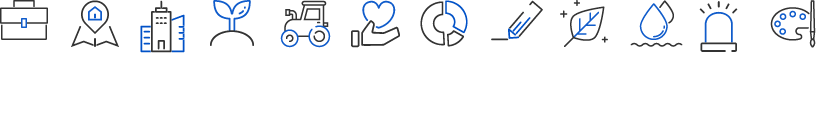
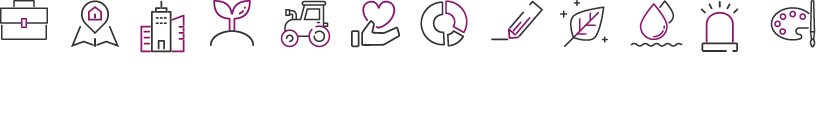
2022 횡성군청 전면개편

diff --git a/2022hsg/site/public/css/public_common.css b/2022hsg/site/public/css/public_common.css
@@ -186,7 +186,7 @@ body[data-layout-type="public-type"]{}
 .header_gnb .direct_link_wrap .language .lang_list .lang_item.active .lang_link .lang_text:after{top:8px;right:0;width:12px;height:9px;background-image:url(../images/common/header_gnb_icon.png);background-position:left -30px;}
 
 /* header_box */
-.header_box{display:block;width:100%;height:104px;font-size:0;line-height:0;box-sizing:border-box;}
+.header_box{display:block;width:100%;height:110px;font-size:0;line-height:0;box-sizing:border-box;}
 .header_box .logo{display:block;position:absolute;z-index:21;top:30px;left:0;width:auto;font-size:0;line-height:0;box-sizing:border-box;}
 .header_box .logo a{display:inline-block;width:auto;height:60px;font-size:0;line-height:0;vertical-align:top;box-sizing:border-box;}
 .header_box .logo a .logo_icon{display:inline-block;position:relative;top:calc(50% - 30px);width:85px;height:61px;background-image:url(../images/common/public_logo.png);background-repeat:no-repeat;background-position:left top;vertical-align:top;box-sizing:border-box;}
@@ -195,13 +195,13 @@ body[data-layout-type="public-type"]{}
     .header_box .menu_show{display:none;}
 }
 /* lnb */
-.lnb{display:block;position:absolute;z-index:20;top:47px;left:0;width:100%;font-size:0;line-height:0;box-sizing:border-box;}
+.lnb{display:block;position:absolute;z-index:20;top:50px;left:0;width:100%;font-size:0;line-height:0;box-sizing:border-box;}
 .lnb .lnb_topbox{display:none;}
 .lnb .menu{background-color:#fff;transition-property:height;transition-duration:250ms;transition-timing-function:ease-in-out;}
 .lnb .menu:before{display:block;position:absolute;top:109px;left:50%;transform:translateX(-50%);width:0px;height:1px;background-color:#e5e5e5;content:'';box-sizing:border-box;transition-property:width;transition-duration:950ms;transition-timing-function:ease-in-out;}
 .lnb_open .lnb .menu:before{width:100%;}
 .lnb .menu:after{display:block;position:absolute;top:109px;left:50%;transform:translateX(-50%);width:100%;height:1px;background-color:#e5e5e5;content:'';box-sizing:border-box;transition-property:width, background-color;transition-duration:700ms;transition-timing-function:ease-in-out;}
-.lnb_open .lnb .menu:after{width:0px;background-color:#0456b1;}
+.lnb_open .lnb .menu:after{width:0px;background-color:#5f285c;}
 @media screen and (min-width:1001px){
     .lnb .menu{height:110px;}
 }
@@ -212,12 +212,12 @@ body[data-layout-type="public-type"]{}
 .lnb .menu .depth1 .depth1_list .depth1_item{display:inline-block;width:auto;margin-right:35px;margin-left:35px;vertical-align:top;box-sizing:border-box;}
 .lnb .menu .depth1 .depth1_list .depth1_item .depth1_text{display:inline-block;position:relative;width:auto;padding-top:25px;padding-bottom:25px;font-size:0;line-height:0;vertical-align:top;box-sizing:border-box;}
 .lnb .menu .depth1 .depth1_list .depth1_item .depth1_text span{display:inline-block;position:relative;width:auto;height:60px;font-size:0;line-height:0;vertical-align:top;box-sizing:border-box;}
-.lnb .menu .depth1 .depth1_list .depth1_item .depth1_text span:before{display:block;position:absolute;top:calc(50% - 10px);left:calc(100% + 8px);width:6px;height:6px;background-color:#0058a6;border-radius:100%;content:'';box-sizing:border-box;transform:scale(0);opacity:0;transition-property:transform, opacity;transition-duration:250ms;transition-timing-function:ease-in-out;}
+.lnb .menu .depth1 .depth1_list .depth1_item .depth1_text span:before{display:block;position:absolute;top:calc(50% - 10px);left:calc(100% + 8px);width:7px;height:7px;background-color:#e02752;border-radius:100%;content:'';box-sizing:border-box;transform:scale(0);opacity:0;transition-property:transform, opacity;transition-duration:250ms;transition-timing-function:ease-in-out;}
 .lnb .menu .depth1 .depth1_list .depth1_item .depth1_text:hover span:before{transform:scale(1);opacity:1;}
 .lnb .menu .depth1 .depth1_list .depth1_item.active .depth1_text span:before{transform:scale(1);opacity:1;}
 .lnb .menu .depth1 .depth1_list .depth1_item .depth1_text span em{display:inline-block;position:relative;top:50%;transform:translateY(-50%);font-size:22px;color:#000;line-height:26px;letter-spacing:-0.03em;font-weight:600;font-family:'Pretendard';vertical-align:top;box-sizing:border-box;}
-.lnb .menu .depth1 .depth1_list .depth1_item .depth1_text:hover span em{color:#0456b1;}
-.lnb .menu .depth1 .depth1_list .depth1_item.active .depth1_text span em{color:#0456b1;}
+.lnb .menu .depth1 .depth1_list .depth1_item .depth1_text:hover span em{color:#e02752;}
+.lnb .menu .depth1 .depth1_list .depth1_item.active .depth1_text span em{color:#e02752;}
 .lnb .menu .depth1 .depth1_list .depth1_item .depth1_text[target="_blank"] span em{padding-right:24px;}
 .lnb .menu .depth1 .depth1_list .depth1_item .depth1_text[target="_blank"] span em:before{display:block;position:absolute;top:calc(50% - 8px);right:0;width:17px;height:17px;background-image:url(../images/common/lnb_icon.png);background-repeat:no-repeat;background-position:left top;content:'';transform:rotateX(0deg);transition-property:transform;transition-duration:250ms;transition-timing-function:ease-in-out;}
 .lnb .menu .depth1 .depth1_list .depth1_item .depth1_text[target="_blank"]:hover span em:before{transform:rotateX(360deg);background-position:-30px top;}
@@ -229,13 +229,13 @@ body[data-layout-type="public-type"]{}
 .lnb .menu .depth2 .menu_depth2_title{display:block;position:absolute;top:0;left:calc((100% - 1500px) / 2);width:270px;height:100%;font-size:0;line-height:0;box-sizing:border-box;}
 .lnb .menu .depth2 .menu_depth2_title:before,
 .lnb .menu .depth2 .menu_depth2_title:after{display:block;position:absolute;z-index:1;content:'';box-sizing:border-box;}
-.lnb .menu .depth2 .menu_depth2_title:before{top:50%;right:0;width:0px;height:0px;background-color:#f1f3f4;transform-origin:right center;transform:translateX(50vw) translateY(-50%) scale(0);border-radius:100%;transition-property:width, height, transform, border-radius;transition-duration:2000ms;transition-timing-function:ease-out;}
+.lnb .menu .depth2 .menu_depth2_title:before{top:50%;right:0;width:0px;height:0px;background-color:#f5f0f5;transform-origin:right center;transform:translateX(50vw) translateY(-50%) scale(0);border-radius:100%;transition-property:width, height, transform, border-radius;transition-duration:2000ms;transition-timing-function:ease-out;}
 .lnb .menu .depth1_item.active .depth2 .menu_depth2_title:before{width:100vw;height:100%;transform:translateX(0px) translateY(-50%) scale(1);border-radius:0px;}
-.lnb .menu .depth2 .menu_depth2_title:after{z-index:2;top:0;right:0;width:1px;height:0px;background-color:#e5e5e5;transition-property:height;transition-duration:2000ms;transition-timing-function:ease-in-out;}
+.lnb .menu .depth2 .menu_depth2_title:after{z-index:3;top:0;right:0;width:1px;height:0px;background-color:#e5e5e5;transition-property:height;transition-duration:2000ms;transition-timing-function:ease-in-out;}
 .lnb .menu .depth1_item.active .depth2 .menu_depth2_title:after{height:100%;}
 .lnb .menu .depth2 .menu_depth2_title .deco_box{display:block;position:absolute;z-index:3;top:0;left:0;width:100vw;height:100%;font-size:0;line-height:0;box-sizing:border-box;}
 .lnb .menu .depth2 .menu_depth2_title .deco_box .deco{display:block;position:absolute;background-repeat:no-repeat;background-position:left top;box-sizing:border-box;}
-.lnb .menu .depth2 .menu_depth2_title .deco_box .deco.type1{top:69px;right:calc(100% - 14px);width:394px;height:338px;background-image:url(../images/common/depth2_title_deco01.png);transform:translateX(100%) translateY(-10%) rotate(360deg) scale(0);filter:blur(5px);opacity:0;transition-property:transform, filter, opacity;transition-duration:2000ms;transition-timing-function:ease-in-out;}
+.lnb .menu .depth2 .menu_depth2_title .deco_box .deco.type1{top:79px;right:calc(100% + 12px);width:381px;height:320px;background-image:url(../images/common/depth2_title_deco01.png);transform:translateX(100%) translateY(-10%) rotate(360deg) scale(0);filter:blur(5px);opacity:0;transition-property:transform, filter, opacity;transition-duration:2000ms;transition-timing-function:ease-in-out;}
 .lnb .menu .depth1_item.active .depth2 .menu_depth2_title .deco_box .deco.type1{transform:translateX(0px) translateY(0px) rotate(0deg) scale(1);filter:blur(0px);opacity:1;}
 .lnb .menu .depth2 .menu_depth2_title .deco_box .deco.type2{top:-443px;left:6px;width:634px;height:639px;background-image:url(../images/common/depth2_title_deco02.png);transform:translateX(-15vw) translateY(15vw) skewX(50deg) rotate(360deg) scale(0.5);opacity:0;transition-property:transform, opacity;transition-duration:2500ms;transition-timing-function:ease-in-out;}
 .lnb .menu .depth1_item.active .depth2 .menu_depth2_title .deco_box .deco.type2{transform:translateX(0px) translateY(0px) skewX(0deg) rotate(0deg) scale(1);opacity:1;}
@@ -244,18 +244,27 @@ body[data-layout-type="public-type"]{}
 .lnb .menu .depth2 .menu_depth2_title .title_inner{display:block;position:relative;z-index:4;width:100%;padding-top:43px;padding-right:20px;font-size:0;line-height:0;box-sizing:border-box;transform:translateY(10px);visibility:hidden;opacity:0;transition-property:transform, visibility, opacity;transition-duration:500ms;transition-timing-function:ease-in-out;}
 .lnb .menu .depth1_item.active .depth2 .menu_depth2_title .title_inner{transform:translateY(0px);visibility:visible;opacity:1;}
 .lnb .menu .depth2 .menu_depth2_title .title_inner .title_text{display:block;position:relative;width:100%;height:88px;font-size:0;line-height:0;box-sizing:border-box;}
-.lnb .menu .depth2 .menu_depth2_title .title_inner .title_text em{display:inline-block;position:relative;top:50%;transform:translateY(-50%);font-size:36px;color:#0456b1;line-height:44px;letter-spacing:-0.03em;font-weight:600;font-family:'Pretendard';vertical-align:top;box-sizing:border-box;}
-.lnb .menu .depth2 .menu_depth2_title .title_inner .title_desc{display:block;position:relative;width:100%;margin-top:8px;padding-bottom:110px;font-size:18px;color:#808386;line-height:30px;letter-spacing:-0.03em;font-weight:400;font-family:'Pretendard';box-sizing:border-box;}
+.lnb .menu .depth2 .menu_depth2_title .title_inner .title_text em{display:inline-block;position:relative;top:50%;transform:translateY(-50%);font-size:36px;color:#5f285c;line-height:44px;letter-spacing:-0.03em;font-weight:600;font-family:'Pretendard';vertical-align:top;box-sizing:border-box;}
+.lnb .menu .depth2 .menu_depth2_title .title_inner .title_desc{display:block;position:relative;width:100%;margin-top:8px;padding-bottom:110px;font-size:18px;color:#756774;line-height:30px;letter-spacing:-0.03em;font-weight:400;font-family:'Pretendard';box-sizing:border-box;}
 .lnb .menu .depth2 .menu_depth2_title .title_inner .title_desc:before{display:block;position:absolute;bottom:0;left:0;width:74px;height:65px;background-image:url(../images/common/depth2_title_icon01.png);background-repeat:no-repeat;background-position:center center;content:'';box-sizing:border-box;}
-.lnb .menu .depth2 .depth2_list{display:block;position:relative;float:right;width:calc(100% - 270px);min-height:427px;padding-top:23px;padding-bottom:57px;padding-left:80px;background-color:transparent;font-size:0;line-height:0;box-sizing:border-box;transform:translateX(-20%);opacity:0;transition-property:background-color, transform, opacity;transition-duration:750ms;transition-timing-function:ease-in-out;}
+.lnb .menu .depth2 .depth2_list{display:block;position:relative;float:right;width:calc(100% - 270px);min-height:417px;padding-top:23px;padding-bottom:57px;padding-left:80px;background-color:transparent;font-size:0;line-height:0;box-sizing:border-box;transform:translateX(-20%);opacity:0;transition-property:background-color, transform, opacity;transition-duration:750ms;transition-timing-function:ease-in-out;}
 .lnb_open .lnb .menu .depth1_item.active .depth2 .depth2_list{background-color:#fff;transform:translateX(0px);opacity:1;}
 .lnb .menu .depth2 .depth2_list .depth2_item{display:inline-block;width:calc((100% - 114px) / 4);margin-top:20px;margin-right:38px;vertical-align:top;box-sizing:border-box;}
 .lnb .menu .depth2 .depth2_list .depth2_item:nth-child(4n){margin-right:0;}
-.lnb .menu .depth2 .depth2_list .depth2_item .depth2_text{display:block;position:relative;width:100%;padding:1px 20px;background-color:#fff;border:1px solid #bec5cc;border-radius:5px;font-size:0;line-height:0;box-sizing:border-box;box-shadow:0px 0px 40px rgba(12, 35, 64, 0.1);transition-property:background-color, border-color, box-shadow;transition-duration:250ms;transition-timing-function:ease-in-out;}
-.lnb .menu .depth2 .depth2_list .depth2_item .depth2_text:hover{background-color:#0456b1;border-color:#0456b1;box-shadow:8px 13px 22px rgba(4, 86, 177, 0.22);}
-.lnb .menu .depth2 .depth2_list .depth2_item.active .depth2_text{background-color:#0456b1;border-color:#0456b1;box-shadow:8px 13px 22px rgba(4, 86, 177, 0.22);}
-.lnb .menu .depth2 .depth2_list .depth2_item.actived .depth2_text{background-color:#0456b1;border-color:#0456b1;box-shadow:8px 13px 22px rgba(4, 86, 177, 0.22);}
-.lnb .menu .depth2 .depth2_list .depth2_item .depth2_text span{display:inline-block;position:relative;width:100%;height:44px;font-size:0;line-height:0;vertical-align:top;box-sizing:border-box;}
+.lnb .menu .depth2 .depth2_list .depth2_item .depth2_text{display:block;position:relative;width:100%;padding:1px 20px;font-size:0;line-height:0;box-sizing:border-box;}
+.lnb .menu .depth2 .depth2_list .depth2_item .depth2_text:before{display:block;position:absolute;top:0;left:0;width:100%;height:100%;background-color:#fff;border:1px solid #bec5cc;border-radius:5px;content:'';box-sizing:border-box;box-shadow:0px 0px 40px rgba(16, 19, 56, 0.1);transition-property:background-color, border-color, box-shadow;transition-duration:250ms;transition-timing-function:ease-in-out;}
+.lnb .menu .depth2 .depth2_list .depth2_item .depth2_text:hover:before{background-color:transparent;border-color:transparent;box-shadow:8px 13px 22px rgba(78, 41, 86, 0.25);}
+.lnb .menu .depth2 .depth2_list .depth2_item.active .depth2_text:before{background-color:transparent;border-color:transparent;box-shadow:8px 13px 22px rgba(78, 41, 86, 0.25);}
+.lnb .menu .depth2 .depth2_list .depth2_item.actived .depth2_text:before{background-color:transparent;border-color:transparent;box-shadow:8px 13px 22px rgba(78, 41, 86, 0.25);}
+.lnb .menu .depth2 .depth2_list .depth2_item .depth2_text:after{display:block;position:absolute;top:50%;left:0;transform:translateY(-50%);width:0px;height:100%;background-image:linear-gradient(to right, #1b2a43 0%, #742864 100%);border-radius:5px;content:'';box-sizing:border-box;opacity:0;transition-property:width, opacity;transition-duration:350ms;transition-timing-function:ease-out;}
+.lnb .menu .depth2 .depth2_list .depth2_item .depth2_text:hover:after{width:100%;opacity:1;}
+.lnb .menu .depth2 .depth2_list .depth2_item.active .depth2_text:after{width:100%;opacity:1;}
+.lnb .menu .depth2 .depth2_list .depth2_item.actived .depth2_text:after{width:100%;opacity:1;}
+
+
+
+
+.lnb .menu .depth2 .depth2_list .depth2_item .depth2_text span{display:inline-block;position:relative;z-index:1;width:100%;height:44px;font-size:0;line-height:0;vertical-align:top;box-sizing:border-box;}
 .lnb .menu .depth2 .depth2_list .depth2_item .depth2_text span em{display:inline-block;position:relative;top:50%;transform:translateY(-50%);width:100%;font-size:17px;color:#222d3a;line-height:22px;letter-spacing:-0.03em;font-weight:500;font-family:'Pretendard';vertical-align:top;box-sizing:border-box;transition-property:color;transition-duration:250ms;transition-timing-function:ease-in-out;}
 .lnb .menu .depth2 .depth2_list .depth2_item .depth2_text:hover span em{color:#fff;}
 .lnb .menu .depth2 .depth2_list .depth2_item.active .depth2_text span em{color:#fff;}
@@ -282,7 +291,7 @@ body[data-layout-type="public-type"]{}
 .lnb .menu .depth3 .depth3_list .depth3_item:first-child{margin-top:0;}
 .lnb .menu .depth3 .depth3_list .depth3_item .depth3_text{display:inline-block;width:auto;font-size:0;line-height:0;vertical-align:top;box-sizing:border-box;}
 .lnb .menu .depth3 .depth3_list .depth3_item .depth3_text span{display:inline-block;width:auto;font-size:0;line-height:0;vertical-align:top;box-sizing:border-box;}
-.lnb .menu .depth3 .depth3_list .depth3_item .depth3_text span em{display:inline-block;width:auto;font-size:16px;color:#4c5053;line-height:22px;letter-spacing:-0.03em;font-weight:400;font-family:'Pretendard';vertical-align:top;box-sizing:border-box;}
+.lnb .menu .depth3 .depth3_list .depth3_item .depth3_text span em{display:inline-block;width:auto;font-size:16px;color:#4d4e4e;line-height:22px;letter-spacing:-0.03em;font-weight:400;font-family:'Pretendard';vertical-align:top;box-sizing:border-box;}
 .lnb .menu .depth3 .depth3_list .depth3_item .depth3_text:hover span em{text-decoration:underline;}
 .lnb .menu .depth3 .depth3_list .depth3_item.active .depth3_text span em{text-decoration:underline;}
 .lnb .menu .depth3 .depth3_list .depth3_item.actived .depth3_text span em{text-decoration:underline;}
@@ -300,7 +309,7 @@ body[data-layout-type="public-type"]{}
 .lnb_curtain button{display:none;position:absolute;top:0;left:0;width:100%;height:100%;font-size:0;line-height:0;box-sizing:border-box;}
 .lnb_open .lnb_curtain button{display:block;}
 /* header_info */
-.header_info{display:block;position:absolute;z-index:21;top:47px;right:calc((100% - 1500px) / 2);min-height:110px;padding:25px 0;font-size:0;line-height:0;box-sizing:border-box;}
+.header_info{display:block;position:absolute;z-index:21;top:50px;right:calc((100% - 1500px) / 2);min-height:110px;padding:25px 0;font-size:0;line-height:0;box-sizing:border-box;}
 .header_info .header_info_inner{display:inline-block;position:relative;background-repeat:no-repeat;background-position:left top;vertical-align:top;box-sizing:border-box;}
 .header_info.public_type .header_info_inner{min-width:118px;background-image:url(../images/common/public_header_info.png);}
 .header_info.www_type .header_info_inner{min-width:177px;background-image:url(../images/common/www_header_info.png);}

diff --git a/2022hsg/site/public/css/public_sub_layout.css b/2022hsg/site/public/css/public_sub_layout.css
@@ -40,7 +40,7 @@
 .side .side_menu .menu .depth1 .depth1_list .depth1_item:first-child{margin-top:0;}
 .side .side_menu .menu .depth1 .depth1_list .depth1_item .depth1_text{display:block;position:relative;z-index:1;width:100%;height:58px;padding-right:43px;padding-left:28px;font-size:0;line-height:0;box-sizing:border-box;}
 .side .side_menu .menu .depth1 .depth1_list .depth1_item .depth1_text:before{display:block;position:absolute;top:0;left:0;width:100%;height:100%;background-color:#fff;border:1px solid #d2d2d2;border-radius:4px;content:'';box-sizing:border-box;transition-property:background-color, border-color;transition-duration:180ms;transition-timing-function:ease-in-out;}
-.side .side_menu .menu .depth1 .depth1_list .depth1_item.active .depth1_text:before{background-color:#0b2e70;border-color:#0b2e70;}
+.side .side_menu .menu .depth1 .depth1_list .depth1_item.active .depth1_text:before{background-color:#131d44;border-color:#131d44;}
 .side .side_menu .menu .depth1 .depth1_list .depth1_item.has .depth1_text:after{display:block;position:absolute;top:calc(50% - 9px);right:25px;width:18px;height:18px;background-image:url(../images/sub/side_menu_icon.png);background-repeat:no-repeat;background-position:left top;content:'';box-sizing:border-box;}
 .side .side_menu .menu .depth1 .depth1_list .depth1_item.has.active .depth1_text:after{background-position:-20px top;}
 .side .side_menu .menu .depth1 .depth1_list .depth1_item .depth1_text[target="_blank"]:after{display:block;position:absolute;top:calc(50% - 9px);right:25px;width:18px;height:18px;background-image:url(../images/sub/side_menu_icon.png);background-repeat:no-repeat;background-position:-40px top;content:'';box-sizing:border-box;}
@@ -63,13 +63,13 @@
 .side .side_menu .menu .depth2 .depth2_list .depth2_item.active .depth2_text{text-decoration:none;}
 .side .side_menu .menu .depth2 .depth2_list .depth2_item .depth2_text:before{display:block;position:absolute;top:0px;right:calc(100% - 6px);width:6px;height:2px;background-color:#616161;content:'';box-sizing:border-box;transform:scale(0);transition-property:top, width, transform;transition-duration:180ms;transition-timing-function:ease-in-out;}
 .side .side_menu .menu .depth1_item.active .depth2 .depth2_list .depth2_item .depth2_text:before{top:11px;transform:scale(1);}
-.side .side_menu .menu .depth2 .depth2_list .depth2_item.active .depth2_text:before{width:100%;background-color:#1964cc;}
+.side .side_menu .menu .depth2 .depth2_list .depth2_item.active .depth2_text:before{width:100%;background-color:#142670;}
 .side .side_menu .menu .depth2 .depth2_list .depth2_item .depth2_text span{display:block;position:relative;width:100%;font-size:0;line-height:0;box-sizing:border-box;}
 .side .side_menu .menu .depth2 .depth2_list .depth2_item .depth2_text span em{display:inline-block;position:relative;width:auto;font-size:0px;color:#4b4b4b;line-height:0px;letter-spacing:-0.03em;font-weight:600;font-family:'Pretendard';vertical-align:top;box-sizing:border-box;transition-property:font-size, line-height;transition-duration:180ms;transition-timing-function:ease-in-out;}
 .side .side_menu .menu .depth2 .depth2_list .depth2_item .depth2_text:hover span em{text-decoration:underline;}
 .side .side_menu .menu .depth2 .depth2_list .depth2_item.active .depth2_text:hover span em{text-decoration:none;}
 .side .side_menu .menu .depth1_item.active .depth2 .depth2_list .depth2_item .depth2_text span em{font-size:16px;line-height:26px;}
-.side .side_menu .menu .depth2 .depth2_list .depth2_item.active .depth2_text span em{color:#1964cc;}
+.side .side_menu .menu .depth2 .depth2_list .depth2_item.active .depth2_text span em{color:#142670;}
 .side .side_menu .menu .depth2 .depth2_list .depth2_item.has .depth2_text span em{padding-right:22px;}
 .side .side_menu .menu .depth2 .depth2_list .depth2_item.has .depth2_text span em:before{display:block;position:absolute;top:0px;right:0;width:10px;height:6px;background-image:url(../images/sub/side_menu_icon.png);background-repeat:no-repeat;background-position:left -20px;content:'';box-sizing:border-box;transform:scale(0);transition-property:top, transform;transition-duration:180ms;transition-timing-function:ease-in-out;}
 .side .side_menu .menu .depth1_item.active .depth2 .depth2_list .depth2_item.has .depth2_text span em:before{top:10px;transform:scale(1);}
@@ -90,7 +90,7 @@
 .side .side_menu .menu .depth3 .depth3_list .depth3_item .depth3_text span{display:block;position:relative;width:100%;font-size:0;line-height:0;box-sizing:border-box;}
 .side .side_menu .menu .depth3 .depth3_list .depth3_item .depth3_text span em{display:inline-block;position:relative;width:auto;font-size:0px;color:#555;line-height:0px;letter-spacing:-0.03em;font-weight:400;font-family:'Pretendard';box-sizing:border-box;transition-property:font-size, line-height;transition-duration:180ms;transition-timing-function:ease-in-out;}
 .side .side_menu .menu .depth1_item.active .depth2_item.active .depth3 .depth3_list .depth3_item .depth3_text span em{font-size:15px;line-height:24px;}
-.side .side_menu .menu .depth3 .depth3_list .depth3_item.active .depth3_text span em{color:#1964cc;font-weight:600;}
+.side .side_menu .menu .depth3 .depth3_list .depth3_item.active .depth3_text span em{color:#142670;font-weight:600;}
 .side .side_menu .menu .depth3 .depth3_list .depth3_item .depth3_text:hover span em{text-decoration:underline;}
 .side .side_menu .menu .depth3 .depth3_list .depth3_item.active .depth3_text:hover span em{text-decoration:none;}
 .side .side_menu .menu .depth3 .depth3_list .depth3_item .depth3_text[target="_blank"] span em{padding-right:15px;}

diff --git a/2022hsg/site/www/css/common.css b/2022hsg/site/www/css/common.css
@@ -7,21 +7,14 @@ body[data-layout-type="www-type"]{}
     .header_gnb .direct_link_wrap .language{display:inline-block;}
     .header_box .logo a .logo_icon{top:calc(50% - 22px);}
     .header_box .logo a span{display:none;}
-    .lnb .menu .depth1 .depth1_list .depth1_item .depth1_text span:before{top:calc(100% - 6px);left:calc(50% - 4px);width:9px;height:9px;}
 
     /* 분야별정보(대표전용) */
-    .lnb .menu .depth1_item:last-child .depth2 .depth2_list{padding-top:18px;padding-bottom:49px;}
+    .lnb .menu .depth1_item:last-child .depth2 .depth2_list{padding-top:8px;padding-bottom:49px;}
     .lnb .menu .depth1_item:last-child .depth2 .depth2_list .depth2_item{width:calc((100% - 211px) / 6);margin-top:30px;margin-right:42px;}
     .lnb .menu .depth1_item:last-child .depth2 .depth2_list .depth2_item:nth-child(4n){margin-right:42px;}
     .lnb .menu .depth1_item:last-child .depth2 .depth2_list .depth2_item:nth-child(6n){margin-right:0;}
-    .lnb .menu .depth1_item:last-child .depth2 .depth2_list .depth2_item .depth2_text{padding:0;border:0;}
-    .lnb .menu .depth1_item:last-child .depth2 .depth2_list .depth2_item .depth2_text:before{display:block;position:absolute;top:50%;left:50%;transform:translateX(-50%) translateY(-50%);width:100%;height:100%;border:1px solid #bec5cc;border-radius:5px;content:'';box-sizing:border-box;transition-property:width, height, border-color, border-radius;transition-duration:500ms;transition-timing-function:ease-out;}
-    .lnb .menu .depth1_item:last-child .depth2 .depth2_list .depth2_item .depth2_text:hover:before{width:0px;height:0px;border-color:transparent;border-radius:100%;}
-    .lnb .menu .depth1_item:last-child .depth2 .depth2_list .depth2_item.active .depth2_text:before{width:0px;height:0px;border-color:transparent;border-radius:100%;}
-    .lnb .menu .depth1_item:last-child .depth2 .depth2_list .depth2_item.actived .depth2_text:before{width:0px;height:0px;border-color:transparent;border-radius:100%;}
-    .lnb .menu .depth1_item:last-child .depth2 .depth2_list .depth2_item .depth2_text:hover{border:0;background-image:linear-gradient(30deg, #0052ad, #1a7ff0);}
-    .lnb .menu .depth1_item:last-child .depth2 .depth2_list .depth2_item.active .depth2_text{border:0;background-image:linear-gradient(30deg, #0052ad, #1a7ff0);}
-    .lnb .menu .depth1_item:last-child .depth2 .depth2_list .depth2_item.actived .depth2_text{border:0;background-image:linear-gradient(30deg, #0052ad, #1a7ff0);}
+    .lnb .menu .depth1_item:last-child .depth2 .depth2_list .depth2_item .depth2_text{padding:0;}
+
     .lnb .menu .depth1_item:last-child .depth2 .depth2_list .depth2_item .depth2_text span{height:150px;text-align:center;}
     .lnb .menu .depth1_item:last-child .depth2 .depth2_list .depth2_item .depth2_text span em{padding-top:70px;font-size:18px;line-height:26px;}
     .lnb .menu .depth1_item:last-child .depth2 .depth2_list .depth2_item .depth2_text span em:before,
@@ -46,8 +39,8 @@ body[data-layout-type="www-type"]{}
     .lnb .menu .depth1_item:last-child .depth2 .depth2_list .depth2_item:nth-child(9) .depth2_text span em:after{top:4px;left:calc(50% - 24px);width:48px;height:47px;background-position:-560px -70px;}
     .lnb .menu .depth1_item:last-child .depth2 .depth2_list .depth2_item:nth-child(10) .depth2_text span em:before{top:5px;left:calc(50% - 26px);width:53px;height:47px;background-position:-630px top;}
     .lnb .menu .depth1_item:last-child .depth2 .depth2_list .depth2_item:nth-child(10) .depth2_text span em:after{top:5px;left:calc(50% - 26px);width:53px;height:47px;background-position:-630px -70px;}
-    .lnb .menu .depth1_item:last-child .depth2 .depth2_list .depth2_item:nth-child(11) .depth2_text span em:before{top:1px;left:calc(50% - 19px);width:38px;height:53px;background-position:-700px top;}
-    .lnb .menu .depth1_item:last-child .depth2 .depth2_list .depth2_item:nth-child(11) .depth2_text span em:after{top:1px;left:calc(50% - 19px);width:38px;height:53px;background-position:-700px -70px;}
+    .lnb .menu .depth1_item:last-child .depth2 .depth2_list .depth2_item:nth-child(11) .depth2_text span em:before{top:1px;left:calc(50% - 20px);width:39px;height:53px;background-position:-700px top;}
+    .lnb .menu .depth1_item:last-child .depth2 .depth2_list .depth2_item:nth-child(11) .depth2_text span em:after{top:1px;left:calc(50% - 20px);width:39px;height:53px;background-position:-700px -70px;}
     .lnb .menu .depth1_item:last-child .depth2 .depth2_list .depth2_item:nth-child(12) .depth2_text span em:before{top:7px;left:calc(50% - 23px);width:46px;height:48px;background-position:-770px top;}
     .lnb .menu .depth1_item:last-child .depth2 .depth2_list .depth2_item:nth-child(12) .depth2_text span em:after{top:7px;left:calc(50% - 23px);width:46px;height:48px;background-position:-770px -70px;}
     .lnb .menu .depth1_item:last-child .depth2 .depth2_list .depth2_item .depth2_text span em:before{transform:rotateY(0deg);opacity:1;transition-property:transform, opacity;transition-duration:750ms;transition-timing-function:ease-out;}
